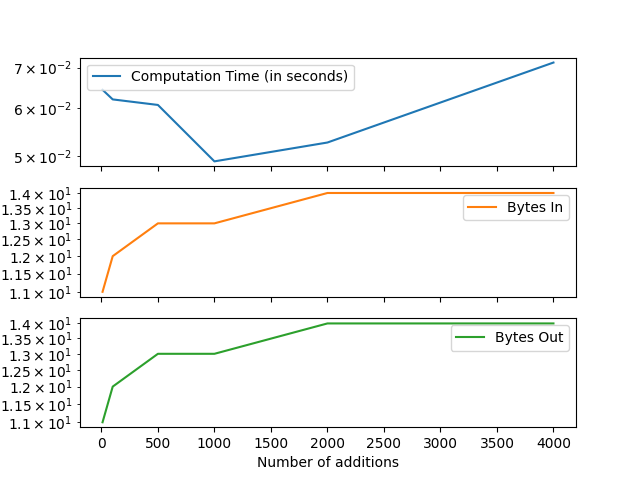
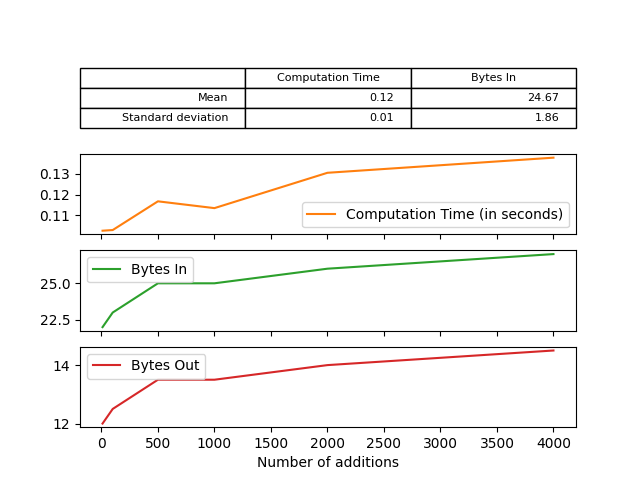
Fini

diff --git a/project1/performance_evaluation.py b/project1/performance_evaluation.py
@@ -23,13 +23,44 @@ from smc_party import SMCParty
 
 sys.setrecursionlimit(5000)
 
+### Make a plot of the given csv file
 def make_plot(title, csv_file):
     df = pd.read_csv(csv_file)
-    df.plot(x=0, subplots=True, xlabel=title, logy=True)
+    df_stat = pd.DataFrame(columns=["Computation Time (in seconds)", "Bytes In", "Bytes Out"])
+    
+    df = df.set_index("Unnamed: 0")
+    fig, axs = plt.subplots(4, sharex=True)
+    axs[1].plot(df["Computation Time (in seconds)"], 'tab:orange', label="Computation Time (in seconds)")
+    axs[2].plot(df["Bytes In"], 'tab:green', label="Bytes In")
+    axs[2].legend()
+    axs[3].plot(df["Bytes Out"], 'tab:red', label="Bytes Out")
+    axs[3].legend()
+    axs[1].legend()
+    axs[3].set_xlabel(title)
+
+    df_stat = df_stat.append(pd.Series(df.mean(), name="Mean"))
+    df_stat = df_stat.append(pd.Series(df.std(), name="Standard deviation"))
+    df_stat = df_stat.round(2)
+
+    values = ["Mean", "Standard deviation"]
+    cell_text = []
+    for row in range(len(df_stat)):
+        txt = list(df_stat.iloc[row][:-1])
+        txt.insert(0, values[row])
+        cell_text.append(txt)
+
+    # statistics table
+    t = axs[0].table(cellText=cell_text, colLabels=["", "Computation Time", "Bytes In", "Bytes Out"], loc="center")
+    axs[0].axis("off")
+    t.auto_set_font_size(False)
+    t.set_fontsize(8)
+    t.scale(1, 1.2)
+
     plt.savefig("perf_eval/" + title + ".png")
-    # plt.show()
+    
     plt.close()
 
+## Class handling the performance evaluation for one test suite
 class PerformanceEvaluator:
   def __init__(self, title=""):
     self.df = pd.DataFrame(columns=["Computation Time (in seconds)", "Bytes In", "Bytes Out"])
@@ -38,11 +69,13 @@ class PerformanceEvaluator:
     self.bytes_out = []
     self.title = title
 
+  # Adds the given evaluation results to the list of parties' results 
   def performance_eval_callback(self, client_id, computation_time, bytes_in, bytes_out):
     self.computation_times.append(computation_time)
     self.bytes_in.append(bytes_in)
     self.bytes_out.append(bytes_out)
 
+  # Reset the evaluation for one parameter
   def complete_results(self, id):
     self.df = self.df.append(pd.Series({
       "Computation Time (in seconds)": mean(list(self.computation_times)), 
@@ -123,7 +156,7 @@ def suite(parties, expr, expected, performance_evaluator):
 
 def test_number_additions(perf):
     """
-    f(a) = a + a + ... + a
+    f(a) = a + b + ... + a + b
     """
     
     num_ops = [10, 100, 500, 1000, 2000, 4000]
@@ -131,12 +164,14 @@ def test_number_additions(perf):
     for num_op in num_ops:
       print("----- Performance evaluation for number of additions " + str(num_op))
       secret = Secret()
+      secret2 = Secret()
       parties = {}
       expr = secret
       parties["Alice"] = { secret: 5 }
+      parties["Bob"] = { secret2: 3 }
 
       for i in range(num_op):
-        expr = expr + secret
+        expr = expr + (secret if i % 2 == 0 else secret2)
 
       suite(parties, expr, 0, perf)
       perf.complete_results(num_op)
@@ -145,17 +180,19 @@ def test_number_additions(perf):
 
 def test_number_additions_scalar(perf):
     """
-    f(a) = a + K0 + ... + K0
+    f(a) = a + b + K0 + ... + K0
     """
     
     num_ops = [10, 100, 500, 1000, 2000, 4000]
 
     for num_op in num_ops:
-      print("----- Performance evaluation for number of additions " + str(num_op))
+      print("----- Performance evaluation for number of scalar additions " + str(num_op))
       secret = Secret()
+      secret2 = Secret()
       parties = {}
-      expr = secret
+      expr = secret + secret2
       parties["Alice"] = { secret: 5 }
+      parties["Bob"] = { secret2: 4 }
 
       for i in range(num_op):
         expr = expr + Scalar(5)
@@ -167,20 +204,22 @@ def test_number_additions_scalar(perf):
 
 def test_number_multiplications(perf):
     """
-    f(a) = a * a * ... * a
+    f(a) = a * b * ... * a * b
     """
     
     num_ops = [10, 100, 500, 1000, 2000, 4000]
 
     for num_op in num_ops:
-      print("----- Performance evaluation for number of additions " + str(num_op))
+      print("----- Performance evaluation for number of multiplications " + str(num_op))
       secret = Secret()
+      secret2 = Secret()
       parties = {}
       expr = secret
       parties["Alice"] = { secret: 2 }
+      parties["Bob"] = { secret2: 2 }
 
       for i in range(num_op):
-        expr = expr * secret
+        expr = expr * (secret if i % 2 == 0 else secret2)
 
       suite(parties, expr, 0, perf)
       perf.complete_results(num_op)
@@ -189,17 +228,19 @@ def test_number_multiplications(perf):
 
 def test_number_scalar_multiplications(perf):
     """
-    f(a) = a * K * ... * K
+    f(a) = a * b * K * ... * K
     """
     
     num_ops = [10, 100, 500, 1000, 2000, 4000]
 
     for num_op in num_ops:
-      print("----- Performance evaluation for number of additions " + str(num_op))
+      print("----- Performance evaluation for number of scalar multiplications " + str(num_op))
       secret = Secret()
+      secret2 = Secret()
       parties = {}
-      expr = secret
+      expr = secret * secret2
       parties["Alice"] = { secret: 2 }
+      parties["Bob"] = { secret2: 2 }
 
       for i in range(num_op):
         expr = expr * Scalar(2)
@@ -218,7 +259,7 @@ def test_number_parties(perf):
   num_ops = 1000
   secrets = [Secret() for _ in range(num_ops)]
 
-  num_parties = [1, 10, 25, 50, 100, 200, 300]
+  num_parties = [1, 10, 25, 50, 75, 100, 125, 150]
 
   expr = secrets[0]
   for i in range(1, num_ops):
@@ -237,9 +278,7 @@ def test_number_parties(perf):
         parties[idx] = {}
       parties[idx][secrets[secret_count]] = 5
       secret_count += 1
-      # print(secret_count, secrets_per_parties, int(secret_count / secrets_per_parties))
 
-    # print(parties)
     suite(parties, expr, 0, perf)
     perf.complete_results(num_party)
 
@@ -249,11 +288,14 @@ def test_number_parties(perf):
 
 
 
-test_number_additions(PerformanceEvaluator("Number of additions"))
-test_number_additions_scalar(PerformanceEvaluator("Number of scalar additions"))
-test_number_multiplications(PerformanceEvaluator("Number of multiplications"))
-test_number_scalar_multiplications(PerformanceEvaluator("Number of scalar multiplications"))
-test_number_parties(PerformanceEvaluator("Number of parties"))
-# make_plot("Number of", "perf_eval/Number of.csv")
-
+# test_number_additions(PerformanceEvaluator("Number of additions"))
+# test_number_additions_scalar(PerformanceEvaluator("Number of scalar additions"))
+# test_number_multiplications(PerformanceEvaluator("Number of multiplications"))
+# test_number_scalar_multiplications(PerformanceEvaluator("Number of scalar multiplications"))
+# test_number_parties(PerformanceEvaluator("Number of parties"))
+make_plot("Number of parties", "perf_eval/Number of parties.csv")
+make_plot("Number of additions", "perf_eval/Number of additions.csv")
+make_plot("Number of scalar additions", "perf_eval/Number of scalar additions.csv")
+make_plot("Number of multiplications", "perf_eval/Number of multiplications.csv")
+make_plot("Number of scalar multiplications", "perf_eval/Number of scalar multiplications.csv")
 

diff --git a/project1/smc_party.py b/project1/smc_party.py
@@ -136,7 +136,7 @@ class SMCParty:
         reconstructed = reconstruct_secret(shares)
 
         end = time.time()
-        if self.performance_evaluation is not None:
+        if self.performance_evaluation:
             return (reconstructed, end - start, self.bytes_in, self.bytes_out)
         else:
             return reconstructed
